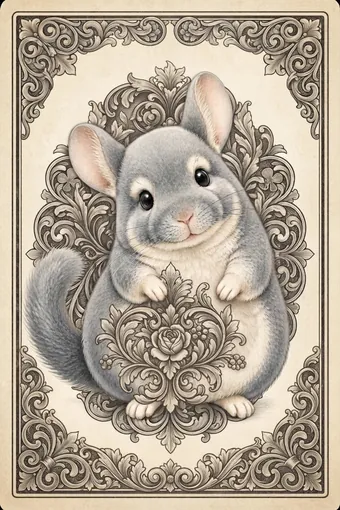
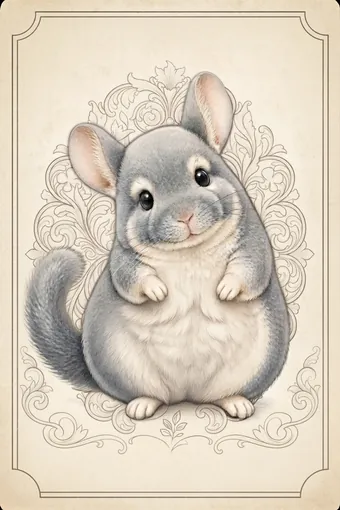
カード裏面をシンプル版に差し替え、メニューのトランプ絵柄をカード裏面に変更

diff --git a/docs/index.html b/docs/index.html
@@ -93,6 +93,9 @@
   .game-card .emoji{font-size:34px;line-height:1;}
   .game-card .thumbs{display:flex;gap:4px;height:38px;}
   .game-card .thumbs img{width:38px;height:38px;object-fit:contain;}
+  .game-card .card-ico{height:44px;display:flex;align-items:flex-end;}
+  .game-card .card-ico img{height:44px;width:auto;border-radius:4px;display:block;
+    box-shadow:0 1px 5px rgba(0,0,0,.28);transform:rotate(-6deg);transform-origin:bottom left;}
   .game-card .name{font-weight:800;font-size:17px;}
   .game-card .desc{font-size:12px;color:var(--text-dim);line-height:1.5;overflow-wrap:anywhere;}
   .game-card.soon{opacity:.55;}
@@ -248,7 +251,7 @@
         <span class="desc">8×8。CPU対戦 / 2人対面</span>
       </button>
       <button class="game-card" data-game="trump">
-        <span class="emoji">🃏</span>
+        <span class="card-ico"><img src="assets/cards/back.webp" alt=""></span>
         <span class="name">トランプ</span>
         <span class="desc">神経衰弱ほか。CPU対戦 / 2人対面</span>
       </button>

diff --git a/docs/trump.html b/docs/trump.html
@@ -44,6 +44,9 @@
   }
   .game-card:active{transform:scale(.97);}
   .game-card .emoji{font-size:30px;line-height:1;}
+  .game-card .card-ico{height:44px;display:flex;align-items:flex-end;}
+  .game-card .card-ico img{height:44px;width:auto;border-radius:4px;display:block;
+    box-shadow:0 1px 5px rgba(0,0,0,.28);transform:rotate(-6deg);transform-origin:bottom left;}
   .game-card .name{font-weight:800;font-size:16px;}
   .game-card .desc{font-size:12px;color:var(--text-dim);line-height:1.5;overflow-wrap:anywhere;}
   .game-card.soon{opacity:.55;}
@@ -69,7 +72,7 @@
   <p class="sub">チンチラ柄のカードで遊びます</p>
   <div class="grid" id="grid">
     <a class="game-card" href="memory.html">
-      <span class="emoji">🧠🃏</span>
+      <span class="card-ico"><img src="assets/cards/back.webp" alt=""></span>
       <span class="name">神経衰弱</span>
       <span class="desc">同じ数字・色のペア当て。CPU対戦 / 2人対面</span>
     </a>

diff --git a/README.md b/README.md
@@ -30,6 +30,7 @@
 
 - オセロ盤: `チンチラグレー_オセロ素材/othello_board.svg` を `index.html` にインライン化
 - オセロ駒: `othello_black.png` / `white.png` を 256px WebP 化 → `docs/assets/othello/`
-- トランプ54枚: `未使用/チンチラグレー_トランプ全54枚` を 340px WebP 化 → `docs/assets/cards/`（`S1`〜`S13`,`C*`,`H*`,`D*`,`JB`,`JR`）
-- カード裏面: `docs/assets/cards/back.webp`（チンチラ＋唐草の一枚絵。元 `アプリ素材/Gemini_Generated_Image_20sh8i…jpg` を 340px WebP 化）
+- トランプ54枚: `使用済み/チンチラグレー_トランプ全54枚` を 340px WebP 化 → `docs/assets/cards/`（`S1`〜`S13`,`C*`,`H*`,`D*`,`JB`,`JR`）
+- カード裏面: `docs/assets/cards/back.webp`（`使用済み/チンチラグレー_カード裏面/card_back.jpg` を 340px WebP 化。柄控えめのシンプル版）
+- メニューのトランプ／神経衰弱アイコンも `back.webp` を流用
 - 素材フォルダは `クロコ確認フォルダ/アプリ素材/ボードゲームアプリ/`（`使用済み/` `未使用/` に仕分け、`_使用状況.md` あり）
